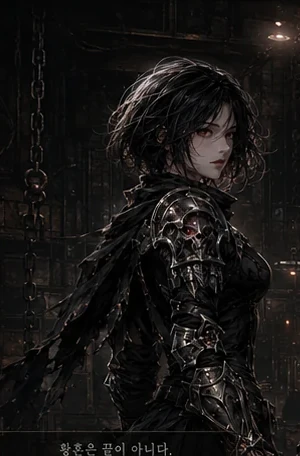
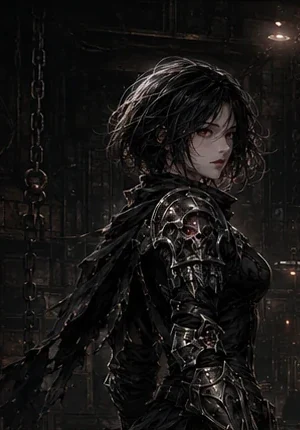
시트대로 화면 맞추기: 스테이지 952px 예산 — 인력사무실이 0.81배로 줄어 있었다
설계 시트는 1672x952 한 장인데 .stage 는 min-height 로만 잡혀 있었다.
패널이 늘어나면 스테이지가 같이 늘고, fitStage 가 «화면 전체» 를 축소한다.
인력사무실 1162px → 0.810배, 제작 1144 → 0.822, 컨셉 보드 1093 → 0.861,
의뢰 상세 1059 → 0.889, 전투 결과 1027 → 0.916.
시트가 설계한 글씨보다 19% 작게, 좌우에 검은 띠를 두고 나오고 있었다.

- css/ui.css: .stage 를 height:952px 로 못박는다 (html.mobile 은 100dvh 로 덮어씀).
  넘치는 것은 시트 의도대로 패널 안에서 스크롤된다. 잘림 검사 전후 동일.
- result.html: 메타 칩이 300px 칸에 갇혀 한글이 한 글자씩 세로로 쪼개졌다.
  nowrap + 인라인 라벨, 오른쪽 칸 auto. 헤더 184 → 52px.
- art/char-result.webp: 시트에서 오려낼 때 자막 「황혼은 끝이 아니다」 가 같이
  구워져 있었다. UI 가 같은 문장을 또 그려 두 번 보였다. 456 → 430px 로 잘라 냄.
- office.html: 우측 던전 목록 344px → max-height 150px 스크롤 (시트는 한 줄).
- quest.html: 가운데 열을 시트 비율로. 3분할이 143 → 214px 가 되어 공격 패턴
  5개·마스터리 4단계가 전부 보인다 (3개·2개만 보였다). 출격 CTA 어절 나눔.
- craft.html: 자식 넷에 행 셋이라 「재료 선택」 이 1fr 로 찌그러져 있었다.
  플렉스로 바꿔 display:none 이 행을 밀지 않게.
- compare.html: party.html 은 온라인 허브라 03 시트와 다른 화면 — 탭 이름을
  「파티 모집 (미구현)」 으로.
- tools/screen-fit.mjs: 18화면 스테이지 높이·잘림 검사. min-height 로 되돌려
  일부러 깨뜨려 보고 세 화면을 정확히 집어내는 것을 확인했다.
- docs/design/26, CLAUDE.md.

npm test 132/132.

Claude-Session: https://claude.ai/code/session_01985j7Xg6ZxhQJgPwrCWkih

diff --git a/quest.html b/quest.html
@@ -21,16 +21,16 @@
 .qs__r{display:grid;grid-template-rows:auto auto auto 1fr auto;gap:10px;min-height:0}
 
 /* 보스 헤더 */
-.bosshead{padding:11px 15px 0}
+.bosshead{padding:9px 15px 0}
 .bosshead__t{display:flex;align-items:center;gap:10px}
 .bosshead__t h2{font-size:18px;color:var(--tx-hi);letter-spacing:.05em}
-.bosshead__d{font-size:11px;color:var(--tx-dim);line-height:1.55;margin-top:6px}
-.bossart{height:110px;margin:9px 15px 12px;border:1px solid var(--line);position:relative}
+.bosshead__d{font-size:11px;color:var(--tx-dim);line-height:1.45;margin-top:5px}
+.bossart{height:74px;margin:7px 15px 9px;border:1px solid var(--line);position:relative}
 .bossart img{object-position:center 40%}
 
 /* 약점 다이어그램 */
-.weak{position:relative;height:156px}
-.weak__fig{position:absolute;left:50%;top:50%;transform:translate(-50%,-50%);width:212px;height:116px;
+.weak{position:relative;height:132px}
+.weak__fig{position:absolute;left:50%;top:50%;transform:translate(-50%,-50%);width:196px;height:104px;
   background:radial-gradient(60% 60% at 50% 55%,rgba(90,95,110,.22),transparent 70%)}
 .weak__fig img{width:100%;height:100%;object-fit:contain;opacity:.92}
 .callout{position:absolute;min-width:146px;border:1px solid var(--line-gold);background:rgba(20,18,12,.72);padding:6px 9px}
@@ -48,18 +48,21 @@
 
 /* 3분할 하위 패널 */
 .trio{display:grid;grid-template-columns:1.5fr 1fr .82fr;gap:10px;min-height:0}
-.atk{display:flex;align-items:center;gap:9px;padding:4px 0;border-bottom:1px solid var(--line-soft)}
+.atk{display:flex;align-items:center;gap:9px;padding:3px 0;border-bottom:1px solid var(--line-soft)}
 .atk:last-child{border:0}
 .atk__ic{width:22px;height:22px;display:grid;place-items:center;color:#B4726C;flex:none}
 .atk__nm{font-size:12px;color:var(--tx);white-space:nowrap}
 .atk__d{font-size:10px;color:var(--tx-faint);margin-left:auto;text-align:right;white-space:nowrap}
-.trait{display:flex;gap:9px;padding:5px 0;border-bottom:1px solid var(--line-soft)}
+.trait{display:flex;gap:9px;padding:3px 0;border-bottom:1px solid var(--line-soft)}
 .trait:last-child{border:0}
-.trait__ic{width:24px;height:24px;display:grid;place-items:center;color:#9AA0AC;flex:none;
+.trait__ic{width:21px;height:21px;display:grid;place-items:center;color:#9AA0AC;flex:none;
   border:1px solid var(--line);background:rgba(0,0,0,.3)}
-.mrow{display:flex;align-items:flex-start;gap:10px;padding:4px 0;border-bottom:1px solid var(--line-soft)}
+.mrow{display:flex;align-items:flex-start;gap:10px;padding:3px 0;border-bottom:1px solid var(--line-soft)}
 .mrow:last-child{border:0}
 .mrow__g{width:20px;text-align:center;font-family:var(--f-serif);font-size:15px;font-weight:700;flex:none}
+/* 3분할은 시트에서 «전부 보이는» 표다 — 줄간을 조여 5개·4개가 다 들어오게 한다 */
+.trait>div>div,.mrow .xs{line-height:1.36}
+.trait .mt1{margin-top:2px}
 
 /* 하단 3분할 */
 .qs__bottom{display:grid;grid-template-columns:1fr 1fr 1fr;gap:12px}

diff --git a/css/ui.css b/css/ui.css
@@ -28,7 +28,10 @@ a{color:inherit;text-decoration:none}
 /* ---------- 스테이지 ---------- */
 .stage{
   width:var(--stage-w);
-  min-height:952px;
+  /* 설계 시트가 1672x952 한 화면이다. min-height 로 두면 패널이 늘어난 만큼 스테이지가
+     커지고, fitStage 가 «화면 전체» 를 줄여 버린다 (인력사무실이 0.81배까지 줄어 있었다).
+     높이를 못박아 두면 넘치는 것은 패널 안에서 스크롤된다 — 시트와 같은 1:1 배율이 된다. */
+  height:952px;
   margin:0 auto;
   position:relative;
   background:
@@ -184,14 +187,18 @@ svg:not(.gauge svg){fill:none;stroke:currentColor;stroke-width:1.4;stroke-lineca
 .btn[disabled],.btn--off{opacity:.42;pointer-events:none}
 /* 대형 출격 버튼 (모서리 장식) */
 .btn--deploy{
-  flex-direction:column;gap:3px;height:auto;padding:22px 0;width:100%;
+  flex-direction:column;gap:3px;height:auto;padding:22px 14px;width:100%;
   font-family:var(--f-serif);font-size:26px;letter-spacing:.2em;color:#F3E2E2;
+  /* 한글은 어절 단위로 끊는다 — 없으면 «이전 의뢰를 먼저 완 / 료해» 처럼 낱자가 갈린다 */
+  word-break:keep-all;line-height:1.3;text-align:center;
   border:1px solid rgba(199,58,54,.55);
   background:
     radial-gradient(120% 100% at 50% 100%,rgba(165,28,28,.42),transparent 70%),
     linear-gradient(180deg,rgba(70,16,16,.5),rgba(30,10,10,.6));
   box-shadow:inset 0 0 40px rgba(165,28,28,.22)
 }
+/* 잠긴 상태의 라벨은 «출격 준비» 보다 훨씬 길다. 26px 로는 어떤 어절 나눔으로도 안 맞는다. */
+.btn--deploy[disabled]{font-size:17px;letter-spacing:.06em;padding:20px 16px}
 .btn--deploy:hover{box-shadow:inset 0 0 52px rgba(217,58,54,.34),0 0 22px rgba(165,28,28,.28)}
 .btn--deploy .sub{font-family:var(--f-sans);font-size:10.5px;letter-spacing:.3em;color:rgba(230,190,190,.55)}
 

diff --git a/result.html b/result.html
@@ -16,7 +16,7 @@
 <link rel="stylesheet" href="css/mobile.css">
 <style>
 /* 시트형 헤더 */
-.sheethead{display:grid;grid-template-columns:300px 1fr 300px;align-items:center;
+.sheethead{display:grid;grid-template-columns:300px minmax(0,1fr) auto;align-items:center;
   padding:13px 22px 11px;border-bottom:1px solid var(--line-soft)}
 .sheethead__l{display:flex;align-items:center;gap:12px}
 .brand{font-family:var(--f-serif);font-size:22px;color:var(--tx-hi);letter-spacing:.1em}
@@ -27,9 +27,10 @@
 .sheethead__c p{font-size:11.5px;color:var(--tx-faint);margin:5px 0 0}
 .sheethead__r{display:flex;align-items:center;justify-content:flex-end;gap:8px}
 .sheethead__icons{display:flex;align-items:center;gap:2px;margin-left:6px}
-.metachip{border:1px solid var(--line);padding:4px 8px;font-size:9.5px;color:var(--tx-faint);
-  line-height:1.5;text-align:center;background:rgba(0,0,0,.3)}
-.metachip b{display:block;color:var(--tx-dim);font-weight:400;font-size:10px;margin-top:2px}
+.metachip{border:1px solid var(--line);padding:4px 9px;font-size:9.5px;color:var(--tx-faint);
+  line-height:1.5;background:rgba(0,0,0,.3);
+  display:inline-flex;align-items:baseline;gap:7px;white-space:nowrap}
+.metachip b{color:var(--tx-dim);font-weight:400;font-size:10px}
 
 .rs{display:grid;grid-template-columns:286px 1fr;gap:14px;padding:12px 22px;flex:1;min-height:0}
 .rs__r{display:grid;grid-template-rows:1fr auto auto;gap:12px;min-height:0}

diff --git a/craft.html b/craft.html
@@ -36,7 +36,9 @@
 .rrow__ok.no{color:#C9534E;border-color:rgba(192,57,43,.4)}
 
 /* 중앙 */
-.cf__c{display:grid;grid-template-rows:auto 1fr auto;gap:11px;min-height:0}
+.cf__c{display:flex;flex-direction:column;gap:11px;min-height:0}
+.cf__c>section{flex:none}
+.cf__c>#mats-panel{flex:1;min-height:0}
 .result{display:grid;grid-template-columns:150px 1fr;gap:16px;padding:14px 16px}
 .result__art{height:150px;position:relative;border:1px solid var(--line);display:grid;place-items:center;
   background:radial-gradient(60% 60% at 50% 55%,rgba(201,138,43,.14),transparent 70%),rgba(0,0,0,.35);color:#B9A46E}
@@ -151,7 +153,7 @@
         <div class="panel__head"><span class="panel__title">재료 선택</span><span class="panel__meta">재료가 수치·이름·외형을 바꿉니다</span></div>
         <div class="panel__body panel__body--tight" id="picks"></div>
       </section>
-      <section class="panel panel--framed">
+      <section class="panel panel--framed" id="mats-panel">
         <div class="panel__head"><span class="panel__title">필요 재료</span>
           <span class="panel__meta">보유 / 필요</span></div>
         <div class="panel__body scroll" id="r-mats"></div>

diff --git a/office.html b/office.html
@@ -69,6 +69,9 @@
 
 /* 전투 준비 */
 .prep{display:flex;align-items:center;gap:11px;padding:10px 12px}
+/* 시트의 이 칸은 «전투 준비» 한 줄 높이다. 목록이 길어져도 스테이지 952px 예산을
+   넘기면 안 된다 — 넘기면 fitStage 가 화면 전체를 축소한다. 넘치면 여기서 스크롤. */
+.preplist{max-height:150px;overflow-y:auto}
 .prep__thumb{width:58px;height:40px;border:1px solid var(--line);flex:none}
 .prep__ico{width:30px;height:30px;color:var(--gold-dim);flex:none}
 
@@ -188,7 +191,7 @@
         <div class="panel__body scroll" id="q-info"></div>
       </section>
 
-      <section class="panel panel--framed">
+      <section class="panel panel--framed preplist">
         <a class="prep" href="game3d.html" id="of-arena" style="text-decoration:none;color:inherit">
           <svg class="prep__ico"><use href="#i-target"/></svg>
           <div class="fill">

diff --git a/compare.html b/compare.html
@@ -103,7 +103,7 @@ body[data-mode="side"] .side{display:flex}
 var SET = [
   ['인력사무실',   '01-office',    'office.html'],
   ['의뢰 상세',    '02-quest',     'quest.html'],
-  ['파티 모집',    '03-party',     'party.html'],
+  ['파티 모집 (미구현)','03-party', 'party.html'],
   ['장비/인벤토리','05-inventory', 'inventory.html'],
   ['강화',         '06-forge',     'forge.html'],
   ['프로필',       '07-profile',   'profile.html'],

diff --git a/docs/design/26-sheet-conformance.md b/docs/design/26-sheet-conformance.md
@@ -1,0 +1,137 @@
+# 시트대로 화면 맞추기 — 1차 (레이아웃 예산)
+
+「시트대로 화면을 다시 맞춰라 — 구현이 시트에서 벗어난 부분을 찾아 고치기.」
+
+`design-sheets/` 14장을 구현 화면과 같은 좌표계(1672×941, 터치 모드)에서
+한 장씩 겹쳐 봤다. 가장 큰 어긋남은 «어떤 패널이 몇 px 다르다» 가 아니었다.
+
+## 1. 네 화면이 시트보다 길어서 «화면 전체» 가 줄어 있었다
+
+설계 시트는 **1672×952 한 장**이다. `.stage` 는 그걸 `min-height:952px` 로만
+잡아 뒀는데, min 이라 패널이 늘어나면 스테이지가 같이 늘어난다. 그러면
+`fitStage` 가 높이에 맞춰 **화면 전체를 축소**한다.
+
+| 화면 | 스테이지 높이 | 실제 배율 |
+|---|---|---|
+| 인력사무실 | 1162px | **0.810** |
+| 제작 | 1144px | 0.822 |
+| 컨셉 보드 | 1093px | 0.861 |
+| 의뢰 상세 | 1059px | 0.889 |
+| 전투 결과 | 1027px | 0.916 |
+| 나머지 9장 | 952px | 0.989 |
+
+**인력사무실이 0.81배였다.** 시트가 설계한 글자보다 19% 작게, 좌우에 159px 씩
+검은 띠를 두고 나오고 있었다. 폰에서 제일 오래 보는 화면이다.
+
+고친 것은 한 줄이다.
+
+```css
+.stage{ height:952px }   /* min-height 였다 */
+```
+
+높이를 못박으면 넘치는 것은 시트가 의도한 대로 **패널 안에서 스크롤**된다.
+`html.mobile` 은 이미 `height:100dvh` 로 덮어쓰므로 폰 세로 레이아웃은 그대로다.
+
+그 다음 네 화면을 952 안으로 들여보냈다 — 아래 §2~§5.
+
+> 잘림 검사를 바꾸기 전후로 돌려 **완전히 같은 결과**(3화면, 같은 항목)임을
+> 확인하고 적용했다. 새로 잘리는 것은 없다.
+
+## 2. 전투 결과 — 헤더가 184px 였다 (시트는 52px)
+
+`.sheethead` 의 오른쪽 칸이 `300px` 고정인데 메타 칩 3개가 들어간다.
+`white-space` 가 없어서 한글이 **한 글자씩 세로로** 쪼개졌다.
+
+```
+작 전 모 드        난 이 도
+전 투 대 기 화 면   인 원 사 무 실 …
+```
+
+시트는 「작전 모드 · 전투 대기 화면」 한 줄짜리 가로 알약이다.
+`white-space:nowrap` + `b{display:inline}` + 오른쪽 칸을 `auto` 로.
+**184 → 52px.** 이것만으로 스테이지가 1027 → 952 가 됐다.
+
+### 덤 — 같은 문장이 화면에 두 번 나오고 있었다
+
+`art/char-result.webp` 가 시트에서 오려낸 것인데 **아래에 구워진 자막
+「황혼은 끝이 아니다.」 까지 같이 잘려 들어가 있었다.** 구현은 그 문장을
+UI 로 한 번 더 그린다. 바탕에 흐릿하게 반쪽 걸친 같은 문장이 겹쳐 보였다.
+아트에서 자막을 잘라 냈다 (456 → 430px). 나머지 둘(`char-profile`,
+`char-inventory`)은 깨끗했다.
+
+## 3. 인력사무실 — 우측 레일의 던전 목록이 344px
+
+시트에서 그 칸은 「전투 준비 / 훈련용 허수아비」 **한 줄**이다.
+구현은 던전 01·02·03 카드 세 장으로 자라 있었다. 내용은 실제로 쓰는 것이라
+지우지 않고, 시트의 칸 높이에 맞춰 `max-height:150px` + 스크롤로 묶었다.
+
+## 4. 의뢰 상세 — 3분할 표가 반만 보였다
+
+가운데 열의 시트 비율은 히어로 210 / 약점 172 / 3분할 207 / 하단 179 인데,
+구현은 히어로 282·약점 195 로 부풀어 3분할이 **143px** 밖에 못 받았다. 그래서
+
+- 공격 패턴 요약: 5개 중 **3개**
+- 마스터리 등급: S·A·B·C 중 **S·A**
+
+만 보였다. 보스를 읽는 화면에서 공격 패턴이 안 보이면 화면의 목적이 없다.
+히어로 아트·약점 도해·행 여백을 시트 비율로 되돌려 3분할을 **214px** 로.
+이제 세 칸 모두 `need == 165` 로 딱 맞는다 — 전부 보인다.
+
+출격 CTA 도 고쳤다. 잠긴 상태의 라벨이 26px 세리프라 **「이전 의뢰를 먼저 완 /
+료해 주세요」** 로 낱자가 갈렸다. `word-break:keep-all` + 잠금 상태 17px.
+
+## 5. 제작 — 「재료 선택」 이 찌그러져 있었다
+
+`.cf__c` 는 자식이 **넷**인데 행 정의가 **셋**이었다.
+
+```css
+grid-template-rows: auto 1fr auto;   /* 자식: 결과 · 재료 선택 · 필요 재료 · 제작바 */
+```
+
+`재료 선택` 은 평소 `display:none` 이라 셋으로 맞다가, 변형이 있는 레시피를
+고르면 나타나면서 행이 한 칸씩 밀린다. 늘어나야 할 `필요 재료` 가 `auto` 를
+먹고, **`재료 선택` 이 1fr 로 찌그러져** 주재료 한 줄만 반쯤 보였다.
+
+칸 나눔을 플렉스로 바꿨다 — `display:none` 인 자식은 애초에 끼지 않으므로
+밀릴 일이 없다. 이제 주재료·보조 재료·촉매 세 줄이 다 보이고 `필요 재료` 가
+스크롤한다.
+
+## 6. 「파티 모집」 시트에는 구현이 없다
+
+`party.html` 은 온라인 허브(계정·방 코드)로 **바뀌었다.** 03 시트가 그린
+파티 찾기 화면 — 4인 카드·특성 등급표·채팅·모집 시작 — 은 구현이 없다.
+`compare.html` 이 둘을 나란히 놓고 「대조」라고 부르면 거짓말이므로 탭 이름을
+**「파티 모집 (미구현)」** 으로 고쳤다. 만들지 말지는 디렉터 판단이다.
+
+## 7. 재발 방지 — `tools/screen-fit.mjs`
+
+```
+node tools/serve.cjs &
+node tools/screen-fit.mjs
+```
+
+18개 화면의 스테이지 높이를 재서 952 를 넘기면 **배율까지 찍어서** 실패한다.
+`height:952px` 를 `min-height` 로 되돌려 **일부러 깨뜨려 보고** 세 화면을
+정확히 집어내는 것을 확인했다.
+
+```
+!! office.html   스테이지 1030px — 시트보다 78px 길다 (화면이 0.914배로 줄어든다)
+!! craft.html    스테이지 1144px — 시트보다 192px 길다 (화면이 0.823배로 줄어든다)
+!! board.html    스테이지 1093px — 시트보다 141px 길다 (화면이 0.861배로 줄어든다)
+```
+
+## 8. 검수
+
+- 전 18화면 952px, 배율 0.989 (= 941/952) 로 균일.
+- 잘림 검사 변경 전후 동일 — 새로 잘리는 것 없음.
+- `npm test` **132/132**.
+- 인력사무실·의뢰 상세·전투 결과·제작·컨셉 보드 렌더 확인.
+
+## 남은 것 (2차)
+
+시트와 다르지만 «내용이 자란» 것이라 디렉터 판단이 필요한 것들:
+
+- 인력사무실 우측 레일에 던전 진행 목록이 통째로 추가돼 있다 (시트에는 없다).
+- 프로필의 전투 숙련도가 시트 3링(카운터·파괴·생존) → 구현 5링(등급 시스템).
+- 의뢰 카드마다 「잠김」 칩이 붙는다 (시트에는 없다 — 진행 상태 표시).
+- 의뢰 정보의 「주요 적」 아이콘 4개가 전부 같은 그림이다 (시트는 4종).

diff --git a/CLAUDE.md b/CLAUDE.md
@@ -18,6 +18,7 @@
 | 보스 자세 (쓰러짐·사망·공격) | `tools/3d/pose-sheet.html` |
 | 실제 전투 화면 | `game3d.html?d=dNN` + Playwright |
 | 온라인 | `party.html` (2인 필요) + `window.TW_RAID` |
+| 설계 시트 ↔ 구현 | `compare.html` · `tools/screen-fit.mjs` |
 
 ```
 # 포즈 시트 — 게임을 안 띄우므로 빠르다. 바닥판이 있어 파고듦이 보인다.
@@ -25,6 +26,19 @@ tools/3d/pose-sheet.html?clip=down&times=0,0.5,1      # 전 보스 × 한 클립
 tools/3d/pose-sheet.html?rig=ward&clip=all            # 한 보스 × 전 클립
 tools/3d/pose-sheet.html?clip=hit,stagger&times=peak  # 클립마다 «가장 멀어지는 순간»
 ```
+
+### UI 화면은 1672x952 한 장이다
+
+설계 시트가 그 크기다. 스테이지가 그보다 길어지면 `fitStage` 가 **화면 전체를**
+축소한다 — 인력사무실이 0.81배로 줄어 글씨가 시트보다 19% 작게 나오고 있었다
+(docs/design/26). UI 를 건드렸으면 반드시 재라.
+
+```
+node tools/serve.cjs &
+node tools/screen-fit.mjs          # 18화면 전부 952px 인지 + 잘림 검사
+```
+
+넘치면 «스테이지를 늘리는» 게 아니라 **패널 안에서 스크롤하게** 만든다.
 
 **짧은 클립은 반드시 `times=peak`** 로 찍는다. 0/0.5/1 은 하필 «되돌아오는 지점» 에
 걸려 멀쩡한 클립도 죽은 것처럼 보인다 (hit 이 정확히 그랬다 — docs/design/25 §3).
@@ -81,3 +95,5 @@ curl -s https://hukkle-hub.github.io/hwanghon/version.json   # 빌드 해시 확
 - `22` 마영전·몬헌 카메라/연출 벤치마크
 - `23` 던전 07 폐병원
 - `24` 접점·접지 감사 (전 보스 세밀 조정)
+- `25` 전 보스 렌더 감사 + 디자인 시트 빌드 포함
+- `26` 시트대로 화면 맞추기 (레이아웃 예산 952px)
